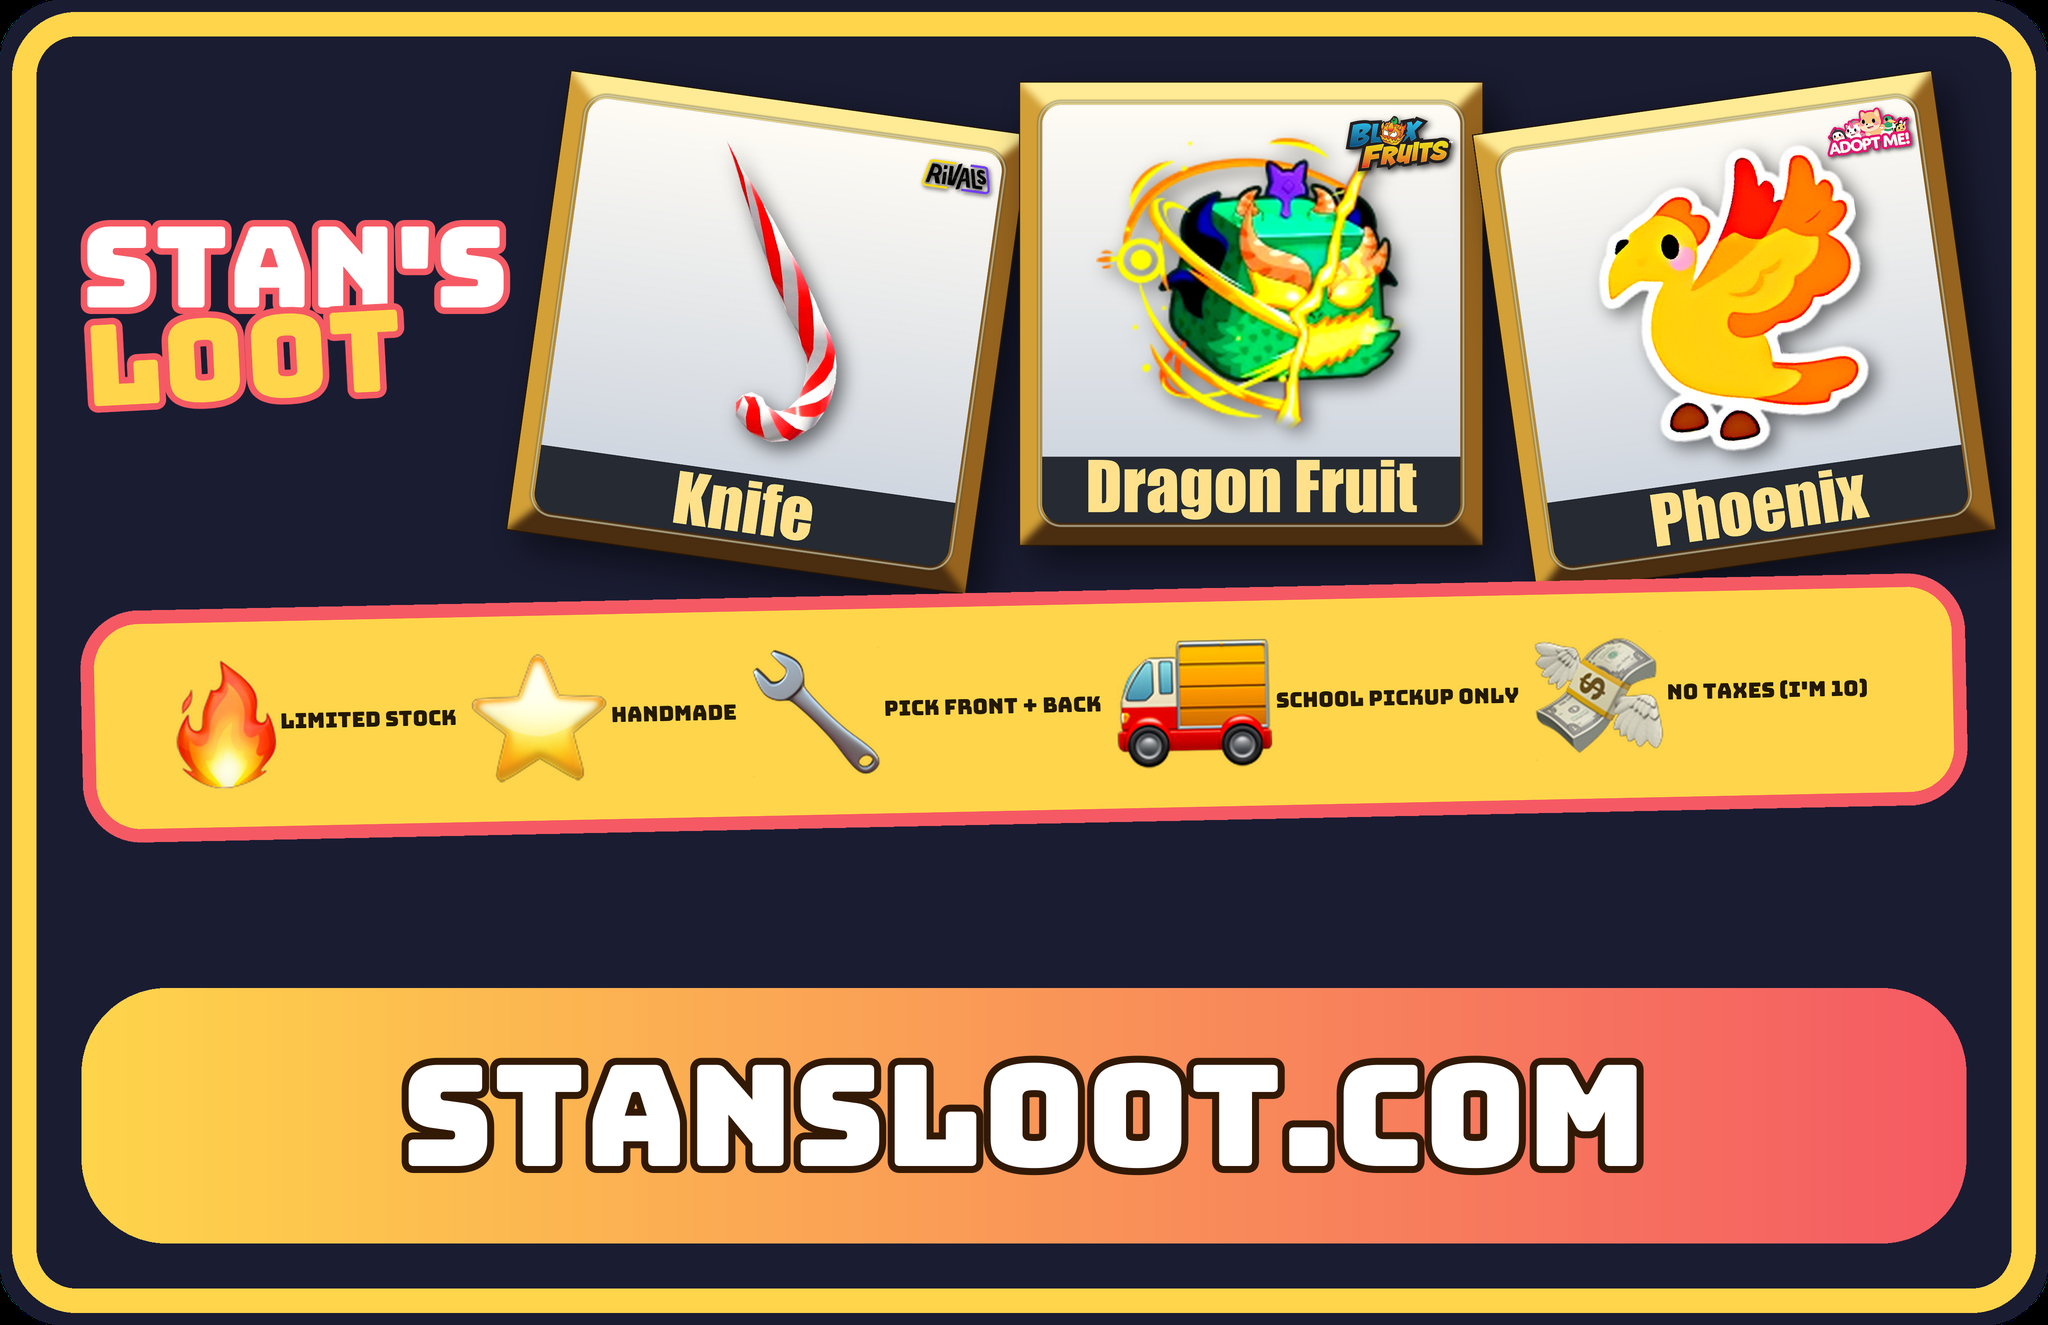
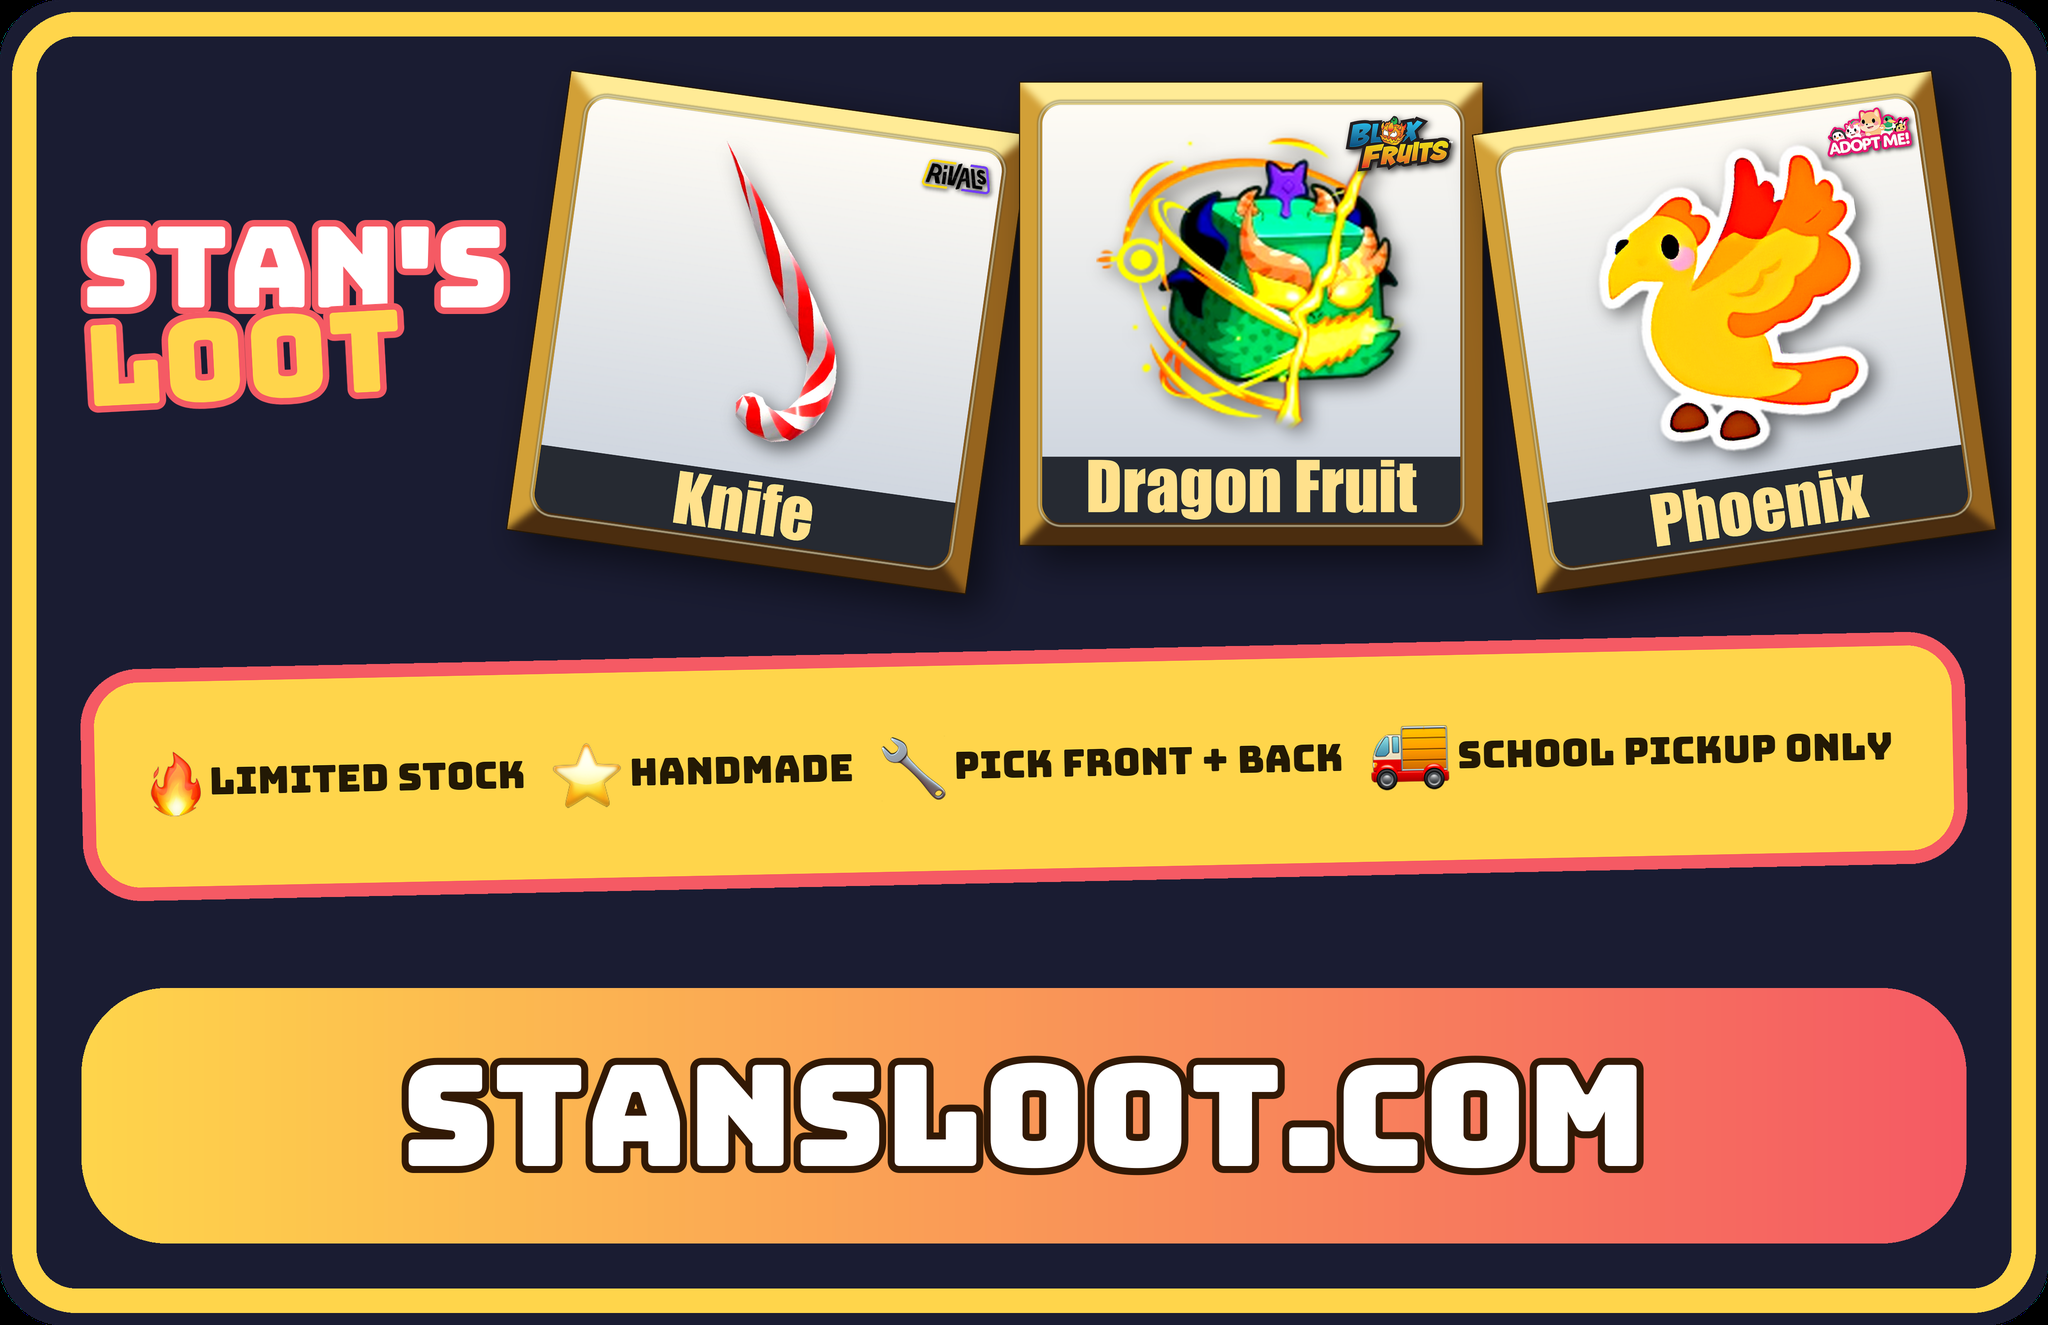
change price to 2

Changed region(s): [[0.0312, 0.4332, 0.9688, 0.6808]]

diff --git a/catalog.js b/catalog.js
@@ -12,8 +12,8 @@ export const CURRENCY = "£";
 
 export const KEYCHAIN = {
   name: "Custom 2-Sided Keychain",
-  price: 3,
-  paymentLink: "https://buy.stripe.com/28E3cv9zk3RJg6IfSmgMw00",
+  price: 2,
+  paymentLink: "https://buy.stripe.com/dRm7sL9zkag75s4fSmgMw01",
 };
 
 export const SECTIONS = [

diff --git a/make_business_card.py b/make_business_card.py
@@ -259,7 +259,7 @@ def build_card(output_path, size_long=2048, supersample=2):
     # Website text: 🔥 LIMITED STOCK · ⭐ HANDMADE · 🔧 PICK FRONT + BACK · 🚚 SCHOOL PICKUP ONLY · 💸 NO TAXES (I'M 10)
     # Rendered as alternating text/emoji segments so Apple Color Emoji shows.
     marquee_h = int(inner_h * 0.20)
-    mq_y0 = row_top + thumb_h + int(inner_h * 0.04)
+    mq_y0 = row_top + thumb_h + int(inner_h * 0.09)
     mq_y1 = mq_y0 + marquee_h
     mq_radius = marquee_h // 4
 
@@ -277,10 +277,9 @@ def build_card(output_path, size_long=2048, supersample=2):
         ("🔥", "emoji"), (" LIMITED STOCK   ", "text"),
         ("⭐", "emoji"), (" HANDMADE   ", "text"),
         ("🔧", "emoji"), (" PICK FRONT + BACK   ", "text"),
-        ("🚚", "emoji"), (" SCHOOL PICKUP ONLY   ", "text"),
-        ("💸", "emoji"), (" NO TAXES (I'M 10)", "text"),
+        ("🚚", "emoji"), (" SCHOOL PICKUP ONLY", "text"),
     ]
-    text_size = int(strip_h * 0.45)
+    text_size = int(strip_h * 0.78)
     while True:
         text_font = font("bungee", text_size)
         segs = []
@@ -289,7 +288,7 @@ def build_card(output_path, size_long=2048, supersample=2):
                 segs.append((content, "emoji"))
             else:
                 segs.append((content, (text_font, dark_text)))
-        layer, total_w, layer_h = render_emoji_text(segs, target_h=int(strip_h * 0.55),
+        layer, total_w, layer_h = render_emoji_text(segs, target_h=int(strip_h * 0.28),
                                                     draw_canvas_size=strip_layer.size)
         if total_w <= strip_w - int(strip_h * 0.6) or text_size < 12:
             break
